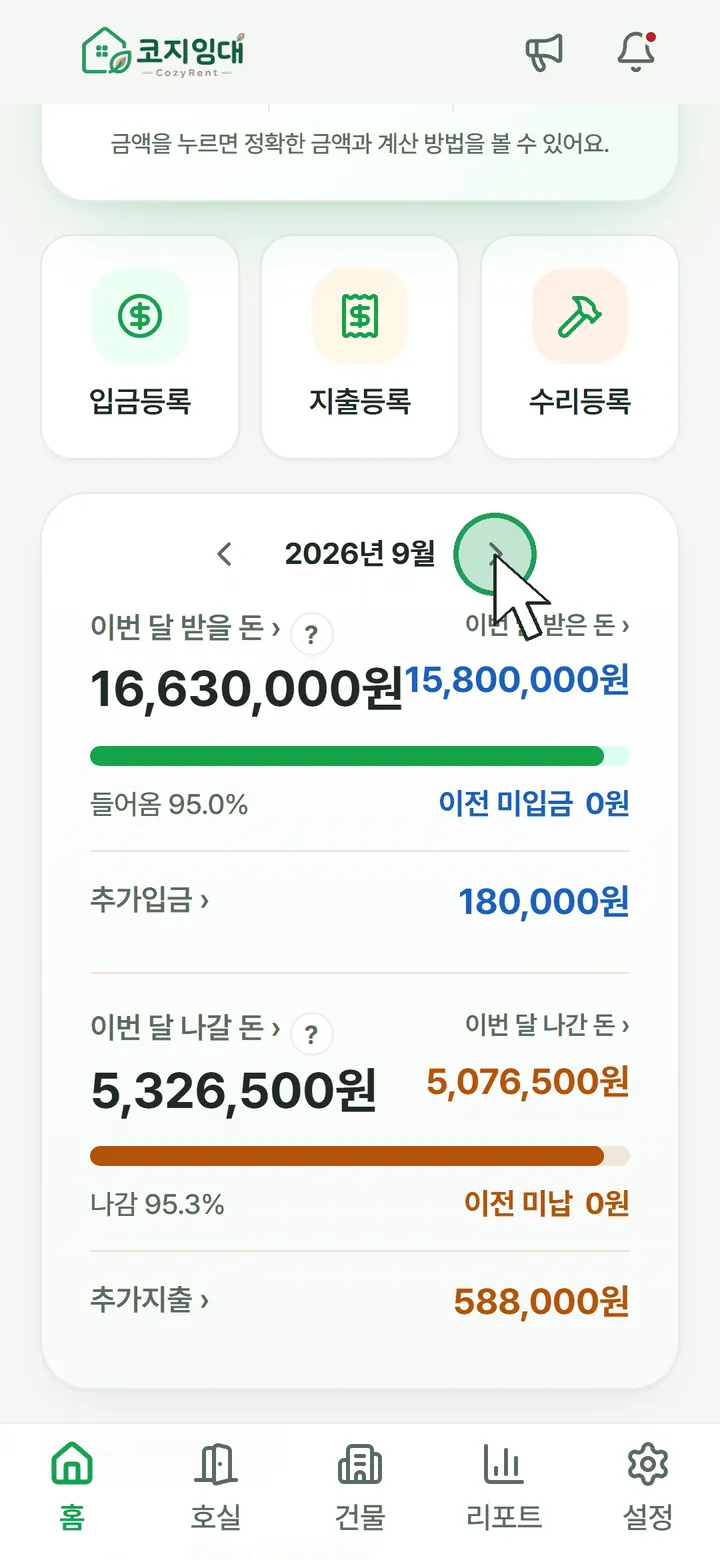
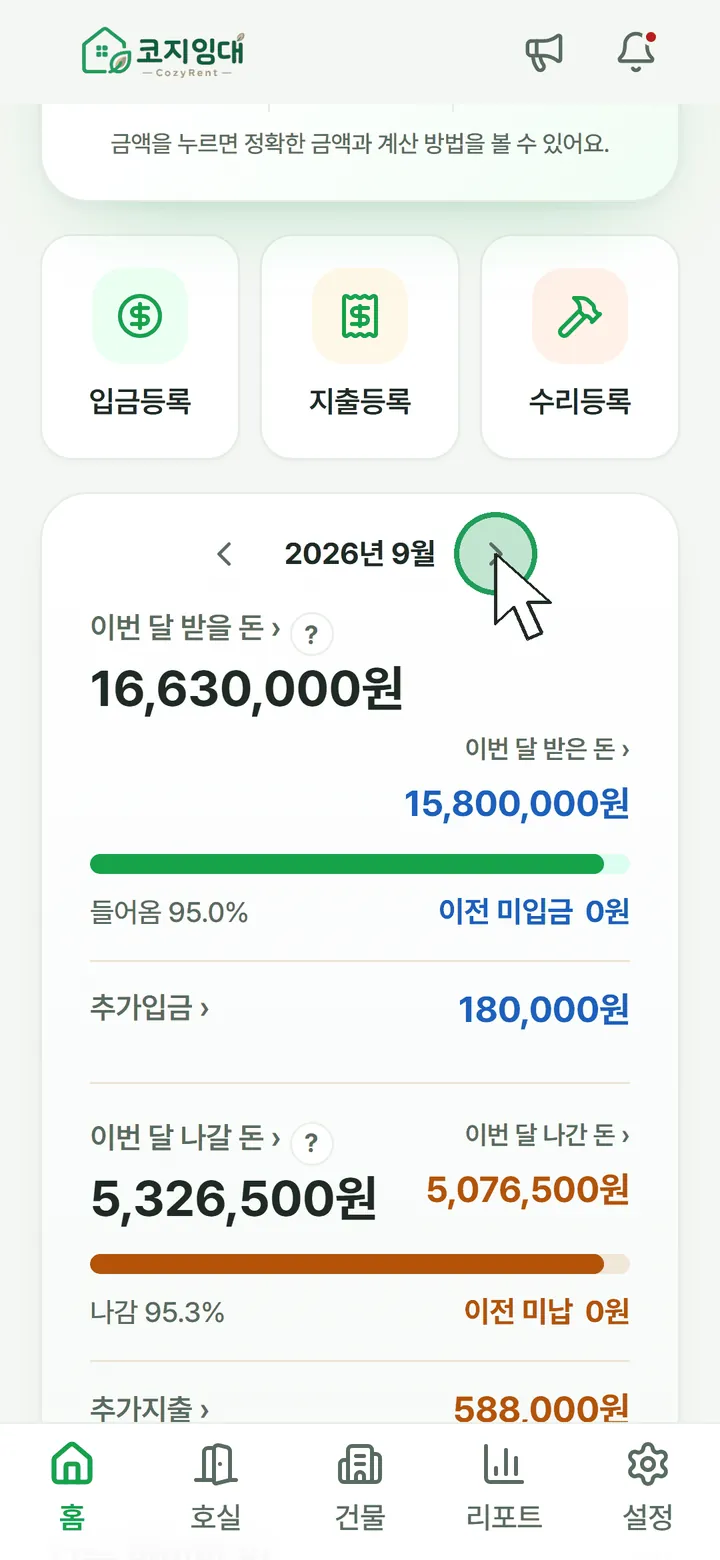
feat(cozyrent): publish the VC85 user manual
- public/manual/cozyrent/index.html: VC85 web copy (cozyrent
  docs/manual-vc85-20261112 41b19be5, --web; cover app version 1.0 (85),
  updated 2026-11-14; sha256 461531c8...). New: the per-screen "매뉴얼"
  button section marked "앱 1.0 (85)부터", start-step begin/end lines,
  and the home month amount figures.
- img: 4 new figures (16-n3..n6) and 3 replaced with the same names
  (02-03, 02-03b, 02-30). The other 396 referenced figures are
  byte-identical; no figure deleted.
- docs/STATUS.md: publish entry (verification pending).

Local checks: tests 70/70, lint and next build pass; on next start the
index matches this commit, 403/403 figures identical, 1,328 links with 0
broken, all 723 previous anchors kept, PC 1280 and mobile 360/390/412 with
no horizontal overflow and no broken images. Recovery: 18289e0 index.html
(sha256 54af024a...) plus the 3 replaced figures.

diff --git a/public/manual/cozyrent/index.html b/public/manual/cozyrent/index.html
@@ -85,23 +85,37 @@ body { word-break: keep-all; overflow-wrap: anywhere; }
 <h1>코지임대</h1>
 <div class="sub">사용자 매뉴얼</div>
 <table>
-<tr><td>앱 버전</td><td>1.0 (84)</td></tr>
-<tr><td>갱신일</td><td>2026-11-10</td></tr>
+<tr><td>앱 버전</td><td>1.0 (85)</td></tr>
+<tr><td>갱신일</td><td>2026-11-14</td></tr>
 <tr><td>대상</td><td>건물을 직접 관리하는 개인 건물주(처음 사용하는 분 기준)</td></tr>
 </table>
 <p>건물·호실·계약을 등록해 두면 매달 받을 돈과 나갈 돈, 못 받은 돈, 다가오는 만료·점검 일정을 앱이 계산해 알려 줍니다.</p>
 </div>
 <div id="_5"></div>
 <h1 id="start">처음 시작할 때</h1>
-<p>처음 쓰는 분은 아래 순서대로 하면 됩니다.</p>
+<p>처음 쓰는 분은 아래 순서대로 하면 됩니다. 순서마다 시작하는 곳과 끝나는 때, 다음 순서를 함께 적었습니다.</p>
 <ol>
-<li><a href="#b-login">로그인하기</a></li>
-<li><a href="#b-first-building">첫 건물 등록하기</a></li>
-<li><a href="#b-contract-new">계약 등록하기</a> — 임차인이 사는 호실마다</li>
-<li><a href="#b-contract-past-check">지난 입금 기록 확인하기</a> — 지난달 이전에 시작한 계약만</li>
-<li><a href="#b-expense-setup">고정지출 설정하기</a></li>
-<li><a href="#b-alarm">휴대폰 알림 켜기</a></li>
-<li><a href="#b-autosave">자동 저장 확인하기</a></li>
+<li><a href="#b-login">로그인하기</a>
+    <div id="start-1"></div>
+    시작: 앱을 처음 열면 나오는 로그인 화면 · 끝: 처음 로그인할 때 나오는 「이 휴대폰 등록」을 누르고 「건물 기본정보」 화면이 열리면 · 다음: <a href="#b-first-building">첫 건물 등록하기</a></li>
+<li><a href="#b-first-building">첫 건물 등록하기</a>
+    <div id="start-2"></div>
+    시작: 건물이 없는 계정으로 로그인하면 저절로 열리는 「건물 기본정보」 화면 · 끝: 마지막 화면 「준비 끝!」에서 「건물 등록 완료」를 누르고, 축하 화면의 「홈에서 시작하기」를 누르면 · 다음: <a href="#b-contract-new">계약 등록하기</a></li>
+<li><a href="#b-contract-new">계약 등록하기</a> — 임차인이 사는 호실마다
+    <div id="start-3"></div>
+    시작: 하단 「호실」 탭 → 계약할 호실 → 「계약 등록」 · 끝: 「저장하시겠습니까?」 창에서 「저장」을 누르면(임차인이 사는 호실마다 되풀이) · 다음: <a href="#b-contract-past-check">지난 입금 기록 확인하기</a>(지난달 이전에 시작한 계약이 없으면 <a href="#b-expense-setup">고정지출 설정하기</a>)</li>
+<li><a href="#b-contract-past-check">지난 입금 기록 확인하기</a> — 지난달 이전에 시작한 계약만
+    <div id="start-4"></div>
+    시작: 하단 「호실」 탭 → 호실 → 그 계약 → 「임대료 입출금 등록/조회」 · 끝: 이전 달 ‹가 흐려지는 계약 시작 달까지 실제 내역과 비교하고 다른 줄을 고치면(그런 계약마다) · 다음: <a href="#b-expense-setup">고정지출 설정하기</a></li>
+<li><a href="#b-expense-setup">고정지출 설정하기</a>
+    <div id="start-5"></div>
+    시작: 하단 「건물」 탭 → 「지출 관리」 → 「고정지출관리」 · 끝: 관리할 항목마다 맨 아래 「저장」을 눌러, 목록의 「설정 필요」가 「고정금액」이나 「변동금액」으로 바뀌면 · 다음: <a href="#b-alarm">휴대폰 알림 켜기</a></li>
+<li><a href="#b-alarm">휴대폰 알림 켜기</a>
+    <div id="start-6"></div>
+    시작: 하단 「설정」 탭 → 「휴대폰 알림」 · 끝: 「휴대폰 알림 허용」 아래 문구가 「받는 중이에요.」로 바뀌면 · 다음: <a href="#b-autosave">자동 저장 확인하기</a></li>
+<li><a href="#b-autosave">자동 저장 확인하기</a>
+    <div id="start-7"></div>
+    시작: 하단 「설정」 탭 → 「데이터 관리」 · 끝: 「자동 저장」 아래에 「최근 변경까지 저장했어요」가 보이면 · 다음: 아래 <strong>매달 할 일</strong>을 매달 합니다(<a href="#b-receive">받은 월세·관리비 기록하기</a>부터)</li>
 </ol>
 <p><strong>매달 할 일</strong></p>
 <ul>
@@ -439,6 +453,7 @@ body { word-break: keep-all; overflow-wrap: anywhere; }
 <li>운영자가 일반 공지를 올려 둔 동안에는 제목줄 바로 아래에 한 줄 공지가 흐릅니다.</li>
 <li>앱 새 버전이 나오면 다섯 개 탭 화면 맨 위에 「새 버전이 있어요」 안내가 나올 수 있습니다(<a href="#b-settings-update">14.5 앱 업데이트하기</a>).</li>
 </ul>
+<p><strong>「매뉴얼」 버튼</strong> — 앱 1.0 (85)부터는 화면 오른쪽 가운데쯤에 책 그림의 「매뉴얼」 버튼이 있습니다. 누르면 지금 화면 설명이 겹쳐 열립니다(<a href="#b-settings-manual-button">화면마다 있는 「매뉴얼」 버튼</a>).</p>
 <p>화면별 뒤로가기 규칙, 저장하지 않고 나갈 때 뜨는 창, 앱을 완전히 종료하는 방법은 <a href="#x-back">뒤로가기와 저장하지 않고 나가기</a>에 있습니다.</p>
 <hr />
 <div id="14"></div>
@@ -539,7 +554,7 @@ body { word-break: keep-all; overflow-wrap: anywhere; }
 <div id="15-6"></div>
 <div id="151"></div>
 <h3 id="b-first-building">1.5 첫 건물 등록하기</h3>
-<p>건물 기본정보부터 층·호실, 설비, 고정지출까지 차례로 고르고 마지막 6단계에서 「건물 등록 완료」를 누르면 건물과 호실이 한 번에 만들어집니다.</p>
+<p>건물 기본정보부터 층·호실, 설비, 고정지출까지 차례로 고르고 마지막 6단계에서 「건물 등록 완료」를 누르면 건물과 호실이 한 번에 만들어집니다. 화면 맨 위 왼쪽은 「취소」, 오른쪽은 지금 단계(예: 「1 / 6」)이고, 맨 아래 「이전」·「다음」으로 단계를 오갑니다.</p>
 <p><strong>들어가는 곳</strong> — 건물이 없는 계정으로 로그인하면 자동으로 열립니다.</p>
 <p>그림은 가상의 건물 「코지빌딩」(준공 2021-03-01 · 지상 3층 · 상가 1개 · 주택 4개 · 주차 5대 · 주인세대 301호)을 등록하는 모습입니다.</p>
 <blockquote class="warn">
@@ -702,7 +717,7 @@ body { word-break: keep-all; overflow-wrap: anywhere; }
 </ol>
 <ul>
 <li>큰 금액(「이번 달 받을 돈」) — 그 달에 받기로 한 월세·관리비·보증금 등의 합계</li>
-<li>오른쪽 파란 금액(「이번 달 받은 돈」) — 그 달 몫으로 입금확인한 돈</li>
+<li>오른쪽 파란 금액(「이번 달 받은 돈」) — 그 달 몫으로 입금확인한 돈. 큰 금액과 한 줄에 다 들어가지 않으면 큰 금액 아래 줄 오른쪽에 보입니다(위 그림의 9월).</li>
 <li>「들어옴 N%」 — 받은 돈을 받을 돈으로 나눈 비율</li>
 <li>「이전 미입금」 — 보고 있는 달보다 앞선 달에 받지 못하고 남은 돈. 큰 금액에는 더하지 않습니다.</li>
 <li>「추가입금」 — 퇴실정산으로 받은 돈·임차인이 부담한 수리비처럼 계약으로 받기로 한 돈과 별개로 등록한 입금</li>
@@ -712,7 +727,7 @@ body { word-break: keep-all; overflow-wrap: anywhere; }
 </ol>
 <ul>
 <li>큰 금액(「이번 달 나갈 돈」) — 그 달에 낼 고정지출과 돌려줄 보증금의 합계</li>
-<li>오른쪽 주황 금액(「이번 달 나간 돈」) — 그 달 몫으로 납부확인하거나 출금으로 기록한 돈</li>
+<li>오른쪽 주황 금액(「이번 달 나간 돈」) — 그 달 몫으로 납부확인하거나 출금으로 기록한 돈(한 줄에 다 들어가지 않으면 큰 금액 아래 줄 오른쪽)</li>
 <li>「나감 N%」 — 나간 돈을 나갈 돈으로 나눈 비율</li>
 <li>「이전 미납」 — 보고 있는 달보다 앞선 달에 나가기로 했는데 아직 나가지 않은 돈(고정지출과 보증금 차액 반환 등 · 퇴실확정 전 보증금 반환은 넣지 않음). 큰 금액에는 더하지 않습니다.</li>
 <li>「추가지출」 — 일회성 지출·수리비·중개수수료·조기퇴실 환급처럼 정기적이지 않은 지출</li>
@@ -763,7 +778,7 @@ body { word-break: keep-all; overflow-wrap: anywhere; }
 <li><strong>「백업을 확인해 주세요」</strong> — 변경 내용이 3일 이상 서버에 저장되지 못하면 목록 맨 위에 보입니다. 누르면 설정 탭이 열리니 「데이터 관리」의 자동 저장 상태를 봅니다(<a href="#a-data-autosave-check">고급 8.1</a>).</li>
 <li><strong>「시작하기」</strong> — 호실은 있는데 진행 중인 계약이 하나도 없을 때 보입니다. 누르면 호실 탭이 열리니 호실을 골라 계약을 등록합니다(<a href="#b-contract-new">4.1 새 계약 등록하기</a>).</li>
 </ul>
-<p>계약을 하나도 저장하지 않은 건물에서는 홈에 들어올 때 「호실별로 계약정보를 등록해 주세요.」 창도 뜹니다. 「계약정보 등록하기」를 누르면 호실 탭으로 갑니다.</p>
+<p>계약을 하나도 저장하지 않은 건물에서는 홈에 들어올 때 「호실별로 계약정보를 등록해 주세요.」 창도 뜹니다. 「계약정보 등록하기」를 누르면 호실 탭으로 갑니다. 「나중에 할게요」는 창만 닫습니다. 계약을 저장하기 전까지는 앱을 다시 켜면 창이 다시 뜹니다.</p>
 <hr />
 <div id="23"></div>
 <h3 id="b-home-quick">2.4 빠른등록 쓰기</h3>
@@ -936,7 +951,7 @@ body { word-break: keep-all; overflow-wrap: anywhere; }
 <p>숫자는 각 화면의 기록으로 앱이 셉니다. 고정지출을 낸 뒤 「납부확인」으로 기록하거나(<a href="#b-expense-pay">7.2 낸 고정지출 기록하기</a>), 끝난 수리를 「수리완료」로 바꿔야(<a href="#b-repair">8. 수리 기록하기</a>) 숫자가 줄어듭니다.</p>
 <p>「점검·관리 등록/조회」로 새로 만든 점검·검사·교육 일정은 「점검 필요」에 세지 않습니다. 「점검 필요 0개」여도 다가오는 일정이 있을 수 있으니 <a href="#b-facility-schedule">9.3 점검 일정 등록하고 완료하기</a>의 전체 관리일정과 알림으로 확인합니다.</p>
 <div class="pair"><div class="pair-text"><ol start="2">
-<li>아래로 내려 관리 메뉴를 누릅니다. 메뉴는 걸러내지 않은 기본 목록을 엽니다.</li>
+<li>화면을 아래로 내리면 건물 관리 메뉴가 보입니다. 메뉴를 누르면 그 항목의 전체 목록이 열립니다.</li>
 </ol></div><div class="pair-shot"><figure class="shot"><img loading="lazy" decoding="async" alt="관리 메뉴 맨 아래" src="img/03-11-building-tab-2--menus-bottom.webp"><figcaption>맨 아래까지 내렸을 때의 「호실별 수리」와 「건물 일정 등록/조회」(표시된 곳)</figcaption></figure></div></div>
 <ul>
 <li>「지출 관리」 — 고정지출 기준정보와 달마다 낸 기록 → <a href="#b-expense">7. 지출 관리하기</a></li>
@@ -1144,6 +1159,7 @@ body { word-break: keep-all; overflow-wrap: anywhere; }
 <ol start="4">
 <li>고치려면 그 줄의 금액·날짜 부분(예시: 「− 45,000원」)을, 지우려면 오른쪽 휴지통을 누릅니다. 방법은 <a href="#b-pay-fix">5.5 잘못 넣은 기록 고치기·지우기</a>와 같고, 지운 기록은 목록과 홈·리포트 집계에서 함께 빠집니다.</li>
 </ol>
+<div id="b-owner-memo"></div>
 <p><strong>메모 남기기</strong></p>
 <ol start="5">
 <li>「주인세대」 화면에서 「메모 등록/조회」를 누르면 「메모」 화면이 열립니다. 쓰고 고치고 지우는 방법은 <a href="#b-contract-memo">4.9 계약 메모 남기기</a>와 같습니다. 주인세대 메모와 계약 메모는 서로 섞이지 않아, 한쪽 화면에서 다른 쪽 메모는 보이지 않습니다.</li>
@@ -2611,7 +2627,7 @@ body { word-break: keep-all; overflow-wrap: anywhere; }
 <div class="pair"><div class="pair-shot"><figure class="shot"><img loading="lazy" decoding="async" alt="시설 관리 화면" src="img/12-01-facilities-main.webp"><figcaption>「시설 관리」 화면(예시: 소방설비에 소화기 1대를 등록한 뒤)</figcaption></figure></div><div class="pair-text"><ul>
 <li><strong>위쪽 4칸</strong> — 「등록 시설」은 폐기하지 않은 시설의 대수, 「수리중」은 접수·진행 중인 수리가 있는 시설 수, 「수리완료」는 완료된 수리만 있는 시설 수입니다. 「점검 필요」는 예전 버전 앱에서 정해 둔 점검 일정만 세므로, 새로 등록하는 점검 일정은 <a href="#b-facility-schedule-all">전체 관리일정</a>에서 봅니다. 칸을 누르면 그 조건의 시설이 있는 설비만 남고, 「등록 시설」을 누르면 전체로 돌아옵니다.</li>
 <li><strong>「전체 시설비」</strong> — 폐기하지 않은 시설의 「구입·설치 금액」을 더한 값입니다. 운영지출에는 들어가지 않습니다.</li>
-<li><strong>설비 목록</strong> — 시설이 한 대 이상 있는 설비가 맨 위에 놓입니다. 쓰지 않는 설비를 목록 아래로 내리는 방법은 <a href="#a-facility-disable">고급 6.1</a>에 있습니다.</li>
+<li><strong>설비 목록</strong> — 시설이 한 대 이상 있는 설비는 연한 초록색 카드로 맨 위에 놓입니다. 쓰지 않는 설비를 목록 아래로 내리는 방법은 <a href="#a-facility-disable">고급 6.1</a>에 있습니다.</li>
 </ul></div></div>
 <ol>
 <li>시설을 등록할 설비의 이름(예시: 소방설비)을 누릅니다.</li>
@@ -2667,7 +2683,7 @@ body { word-break: keep-all; overflow-wrap: anywhere; }
 <h4 id="b-facility-edit">시설 정보 고치기</h4>
 <div class="pair"><div class="pair-text"><ol>
 <li>현황판에서 「시설 수정」을 누르면 「시설 정보」 화면이 열립니다. 등록 화면과 같은 기본 정보·사진·메모 칸이 있고, 「설치업체」 칸은 없습니다. 사진은 붙이거나 지우는 즉시 저장되어 「취소」해도 되돌아가지 않습니다. 점검 일정도 이 화면에서는 고치지 않습니다(<a href="#b-facility-schedule">9.3</a>).</li>
-<li>고친 뒤 맨 아래 「저장」을 누릅니다. 「준공일로 설정」도 칸만 채우므로 「저장」을 눌러야 저장됩니다.</li>
+<li>고친 뒤 맨 아래 「저장」을 누릅니다. 「준공일로 설정」도 칸만 채우므로 「저장」을 눌러야 저장됩니다. 저장되면 「시설 정보를 저장했어요.」가 뜨고 잠시 뒤 현황판으로 돌아갑니다.</li>
 </ol></div><div class="pair-shot"><figure class="shot"><img loading="lazy" decoding="async" alt="시설 정보 맨 아래" src="img/12-34-facility-edit-bottom--save-delete.webp"><figcaption>「시설 정보」 화면 맨 아래 — 「저장」(표시된 곳) 아래가 「잘못 등록한 시설 삭제」</figcaption></figure></div></div>
 <p>「취소」·‹·뒤로가기를 누르면 묻지 않고 바로 나가며 고친 내용(사진 제외)이 버려집니다.</p>
 <blockquote class="warn">
@@ -2699,7 +2715,7 @@ body { word-break: keep-all; overflow-wrap: anywhere; }
 <li>현황판에서 「업체·비상연락망」을 누릅니다.</li>
 </ol></div><div class="pair-shot"><figure class="shot"><img loading="lazy" decoding="async" alt="수리를 등록한 뒤의 현황판" src="img/12-28-hub-after-records.webp"><figcaption>수리를 등록한 뒤의 현황판 — 「업체·비상연락망」은 표시된 곳</figcaption></figure></div></div>
 <div class="pair"><div class="pair-text"><ol start="2">
-<li>건물에 이미 등록된 거래처를 쓰려면 「기존 연락처 연결」을 누릅니다. 열린 창에서 거래처를 누르는 즉시 연결됩니다.</li>
+<li>건물에 이미 등록된 거래처를 쓰려면 「기존 연락처 연결」을 누릅니다. 열린 창에서 거래처를 누르는 즉시 연결됩니다(따로 「저장」을 누르지 않습니다). 잘못 연결했으면 아래 「연결 끊기」로 풉니다.</li>
 </ol></div><div class="pair-shot"><figure class="shot"><img loading="lazy" decoding="async" alt="업체·비상연락망 화면" src="img/12-30-facility-contacts--buttons.webp"><figcaption>「업체·비상연락망」(아직 연결된 연락처가 없는 상태) — 「기존 연락처 연결」은 표시된 곳</figcaption></figure></div></div>
 <div class="pair"><div class="pair-text"><ol start="3">
 <li>
@@ -3340,7 +3356,7 @@ body { word-break: keep-all; overflow-wrap: anywhere; }
 </ol></div><div class="pair-shot"><figure class="shot"><img loading="lazy" decoding="async" alt="약관 및 앱 정보" src="img/16-04-settings-bottom.webp"><figcaption>「약관 및 앱 정보」 — 「개인정보처리방침」·「이용약관」·「오픈소스 라이선스」</figcaption></figure></div><div class="pair-text"><ul>
 <li>「개인정보처리방침」·「이용약관」 — 휴대폰 브라우저에서 문서가 열립니다(인터넷 연결 필요).</li>
 <li>「오픈소스 라이선스」 — 앱을 만드는 데 쓴 공개 소프트웨어(오픈소스) 목록이 앱 안에서 열립니다(아래 2).</li>
-<li>「앱 버전」 — 맨 아래 행에 지금 설치된 버전이 보입니다(예시: 「코지임대 v1.0 (84)」). 문의·오류 신고 때 이 값을 알려 주면 도움이 됩니다.</li>
+<li>「앱 버전」 — 맨 아래 행에 지금 설치된 버전이 보입니다(예시: 「코지임대 v1.0 (85)」). 문의·오류 신고 때 이 값을 알려 주면 도움이 됩니다.</li>
 </ul></div></div>
 <div class="pair"><div class="pair-text"><ol start="2">
 <li>「오픈소스 라이선스」 화면에서 목록을 확인합니다.</li>
@@ -3386,6 +3402,39 @@ body { word-break: keep-all; overflow-wrap: anywhere; }
 <li>「목차」 창에서 읽을 곳을 누릅니다. 장 제목 오른쪽 ›를 누르면 소제목이 펼쳐지고, 장 제목을 누르면 그 장의 처음으로, 소제목을 누르면 그 절로 이동합니다.</li>
 </ol></div><div class="pair-shot"><figure class="shot"><img loading="lazy" decoding="async" alt="목차 창" src="img/16-n2-manual-toc.webp"><figcaption>「목차」 창 — 한 장의 소제목을 펼친 모습</figcaption></figure></div><div class="pair-text"><p>본문 안의 밑줄 친 글자를 눌러도 그곳으로 이동합니다.</p><p>한 번 연 뒤에는 다시 열 때 인터넷이 끊겨 있어도 앱을 닫기 전까지는 보던 내용을 그대로 읽을 수 있습니다.</p><p><strong>불러오지 못했을 때</strong> — 「사용 설명서를 불러오지 못했어요」 아래에 이유가 보입니다. 인터넷 연결을 확인하고 「다시 시도」를 누릅니다.</p></div></div>
 <figure class="shot"><img loading="lazy" decoding="async" alt="사용 설명서를 불러오지 못했을 때" src="img/16-44-manual-load-error--retry.webp"><figcaption>이유(예시: 연결이 불안정할 때)와 「다시 시도」(표시된 곳)</figcaption></figure>
+<h4 id="b-settings-manual-button">화면마다 있는 「매뉴얼」 버튼</h4>
+<blockquote class="info">
+<p>ℹ <strong>앱 1.0 (85)부터</strong> — 이 버튼은 1.0 (85) 업데이트부터 생깁니다. 그 전 버전에서는 위 「사용 설명서 보기」로 읽습니다.</p>
+</blockquote>
+<p>로그인 화면과 첫 건물 등록 화면, 그리고 홈·호실·건물·리포트·설정 탭에서 여는 화면에 있습니다(「사용 설명서 보기」 화면에는 없습니다). 누르면 지금 보는 화면 설명을 바로 엽니다. 보던 화면과 입력하던 내용은 그대로 남습니다.</p>
+<div class="pair"><div class="pair-text"><ol>
+<li>화면 오른쪽 가운데쯤에 있는 책 그림의 「매뉴얼」 버튼을 누릅니다.</li>
+</ol></div><div class="pair-shot"><figure class="shot"><img loading="lazy" decoding="async" alt="매뉴얼 버튼" src="img/16-n3-screen-manual-button.webp"><figcaption>홈 화면 — 오른쪽 가운데의 「매뉴얼」 버튼(표시된 곳)</figcaption></figure></div></div>
+<div class="pair"><div class="pair-text"><ol start="2">
+<li>지금 화면 위에 설명서 창이 아래에서 올라와 겹쳐 열리고, 그 화면에 해당하는 설명이 바로 보입니다. 맞는 설명이 없는 화면에서는 목차가 열립니다.</li>
+</ol></div><div class="pair-shot"><figure class="shot"><img loading="lazy" decoding="async" alt="설명서 창" src="img/16-n4-screen-manual-sheet--header.webp"><figcaption>홈에서 연 설명서 창 — 맨 위 제목, ✕(표시된 곳), 「목차」와 글자 크기</figcaption></figure></div></div>
+<ul>
+<li>「목차」를 누르면 전체 목차가 열려 다른 설명을 찾을 수 있습니다. 「−」·「+」로 글자 크기를 바꿉니다.</li>
+<li>처음 시작에 쓰는 화면에서는 창 위쪽에 「처음 시작 순서 3/7」처럼 지금이 <a href="#start">처음 시작할 때</a>의 몇 번째 순서인지 보입니다.</li>
+</ul>
+<div class="pair"><div class="pair-text"><ol start="3">
+<li>설명 안의 밑줄 친 글자를 누르면 그 설명으로 넘어가고, 제목 왼쪽에 「‹ 이전」이 생깁니다. 「‹ 이전」을 누르면 방금 읽던 곳으로, 읽던 위치 그대로 돌아갑니다. 여러 번 넘어갔으면 누를 때마다 한 단계씩 돌아갑니다.</li>
+</ol></div><div class="pair-shot"><figure class="shot"><img loading="lazy" decoding="async" alt="이전 버튼" src="img/16-n5-screen-manual-prev--header.webp"><figcaption>「3.6 호실 상세에서 할 일」에서 「3.7 주인세대 지정하기」로 넘어온 창 — 제목 왼쪽 「‹ 이전」(표시된 곳)</figcaption></figure></div></div>
+<ul>
+<li>다른 설명으로 넘어가면 본문 맨 위에 「‹ 이 화면 설명으로」도 보입니다. 누르면 지금 화면 설명의 처음으로 갑니다.</li>
+</ul>
+<ol start="4">
+<li>다 읽었으면 오른쪽 위 ✕를 누릅니다. 창만 닫히고 보던 화면으로 돌아옵니다.</li>
+</ol>
+<ul>
+<li>휴대폰 뒤로가기는 「‹ 이전」과 같습니다. 더 돌아갈 곳이 없으면 창을 닫습니다. ✕는 언제 누르든 바로 닫습니다.</li>
+<li>같은 화면에서 창을 닫았다가 다시 열면 읽던 곳이 그대로 열립니다. 다른 화면으로 옮겼다가 돌아오면 그 화면 설명이 처음부터 열립니다. 호실이 다르면 다른 화면으로 봅니다(예: 201호 상세와 202호 상세).</li>
+</ul>
+<p><strong>버튼 옮기기</strong> — 버튼을 누른 채 끌면 자리를 옮길 수 있고, 손을 떼면 가까운 왼쪽이나 오른쪽 끝에 붙습니다. 옮긴 자리는 이 휴대폰에서 기억합니다.</p>
+<div class="pair"><div class="pair-shot"><figure class="shot"><img loading="lazy" decoding="async" alt="옮긴 매뉴얼 버튼" src="img/16-n6-screen-manual-moved--button.webp"><figcaption>버튼을 끌어 빠른등록 버튼 줄 아래 빈 곳으로 옮긴 모습(표시된 곳) — 원래 자리에서 가렸던 「1년치 고정지출」 금액과 안내 문구가 다시 보입니다.</figcaption></figure></div><div class="pair-text"><ul>
+<li>버튼은 정한 자리에서 움직이지 않습니다. 버튼이 아래 칸이나 버튼을 가리면 버튼을 끌어 옮긴 뒤 누릅니다.</li>
+<li>화면을 스크롤하는 동안에는 잠시 사라졌다가 멈추면 같은 자리에 다시 보입니다. 글자를 입력하는 동안과 확인창·날짜 선택·사진 창이 떠 있는 동안에도 보이지 않습니다.</li>
+</ul></div></div>
 <hr />
 <div id="17"></div>
 <div id="172"></div>
@@ -4132,6 +4181,7 @@ body { word-break: keep-all; overflow-wrap: anywhere; }
 <li>갱신계약이 있으면 「이 계약을 잇는 갱신계약(… 시작)이 저장돼 있어 퇴실관리를 시작할 수 없어요. …」와 「갱신계약 확인」이 보입니다. 「갱신계약 확인」을 누르면 갱신계약의 「계약」 화면으로 갑니다.</li>
 <li>계약변경이 있으면 「이 계약의 계약변경(… 적용)이 저장돼 있어 퇴실관리를 시작할 수 없어요. 변경된 계약에서 계약변경을 취소하면 다시 할 수 있어요.」와 「변경된 계약 확인」이 보입니다.</li>
 <li>퇴실 진행자료와 후속 계약이 함께 저장된 경우(퇴실확정 화면)에는 「이 계약에는 퇴실 진행자료와 후속 계약(갱신·계약변경)이 함께 저장돼 있어요. …」와 함께 「퇴실 진행 취소」 버튼이 더 보입니다. 이 자료는 자동으로 삭제되지 않습니다. 「계약」 화면 현황판에도 같은 안내가 나옵니다.</li>
+<li>어느 경우든 맨 아래 「원계약으로 돌아가기」를 누르면 이 계약의 「계약」 화면으로 돌아갑니다.</li>
 </ul>
 <p>퇴실을 계속하려면 갱신계약이나 계약변경을 먼저 취소하고, 후속 계약을 유지하려면 「퇴실 진행 취소」(<a href="#a-moveout-cancel">고급 3.5</a>)로 퇴실 자료를 정리합니다.</p>
 <blockquote class="info">
@@ -7273,7 +7323,7 @@ body { word-break: keep-all; overflow-wrap: anywhere; }
 <div id="195"></div>
 <h2 id="x-basis">이 설명서의 기준</h2>
 <ul>
-<li>코지임대 앱 버전 1.0 (84)을 기준으로 적었습니다. 설치된 버전은 하단 「설정」 탭 → 「약관 및 앱 정보」 맨 아래 「앱 버전」(예시: 「코지임대 v1.0 (84)」)에서 봅니다(<a href="#b-settings-about">14.4</a>).</li>
+<li>코지임대 앱 버전 1.0 (85)를 기준으로 적었습니다. 설치된 버전은 하단 「설정」 탭 → 「약관 및 앱 정보」 맨 아래 「앱 버전」(예시: 「코지임대 v1.0 (85)」)에서 봅니다(<a href="#b-settings-about">14.4</a>).</li>
 <li>이 설명서는 앱의 하단 「설정」 탭 → 「도움말」 → 「사용 설명서 보기」에서도 같은 내용으로 볼 수 있습니다(<a href="#b-settings-manual">14.6</a>).</li>
 <li>그림은 모두 실제 앱 화면입니다. 2026-09-15~16에 처음 찍었고, 화면이 바뀐 곳은 2026년 10월과 11월에 다시 찍었습니다. 일부 그림은 같은 앱 화면을 PC에서 휴대폰 크기로 띄워 찍었습니다(<a href="#x-howto">이 설명서 읽는 법</a>).</li>
 <li>앱이 업데이트되면 화면 모양과 문구가 달라질 수 있습니다. 설명서와 화면의 문구가 다르면 앱 화면의 문구가 우선입니다.</li>
